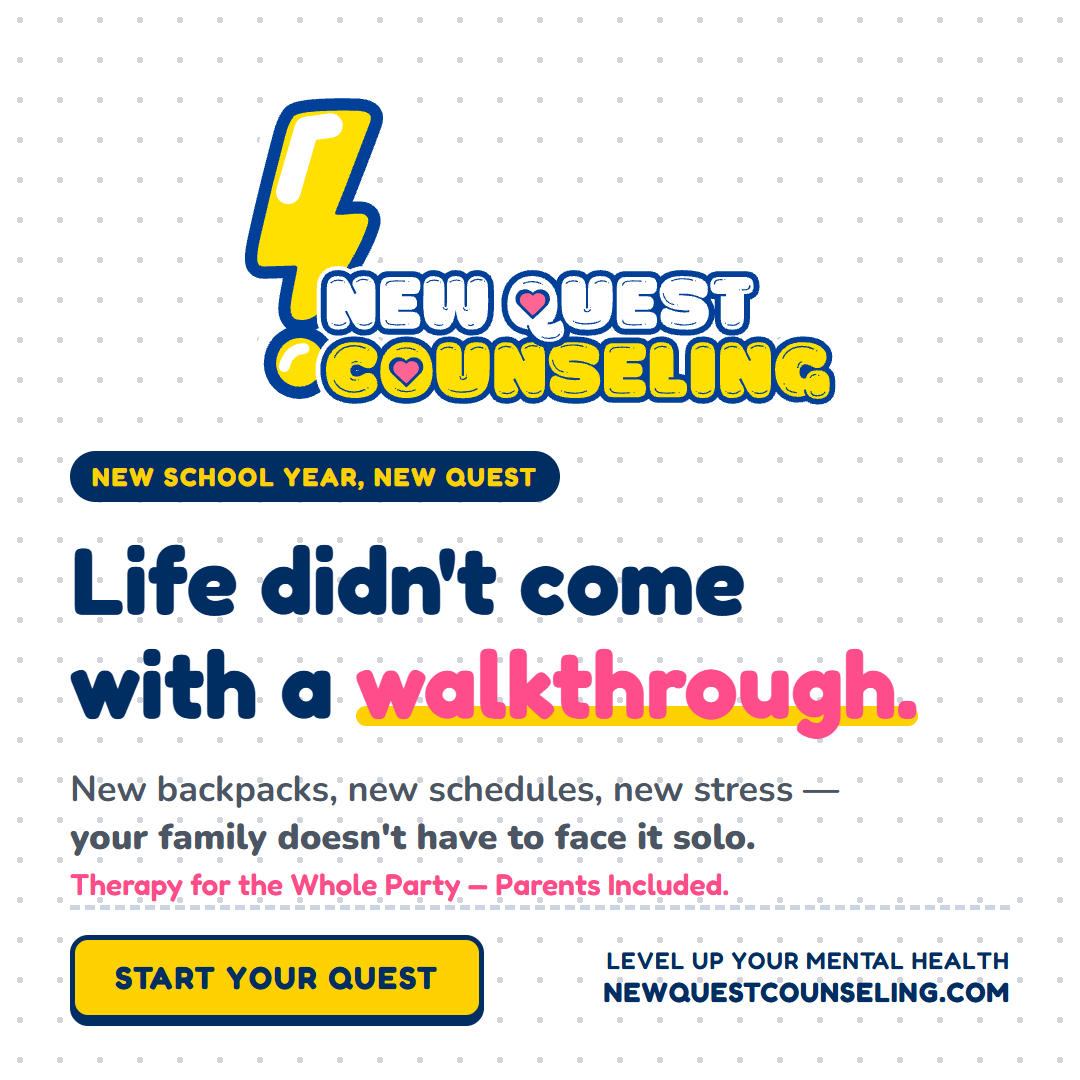
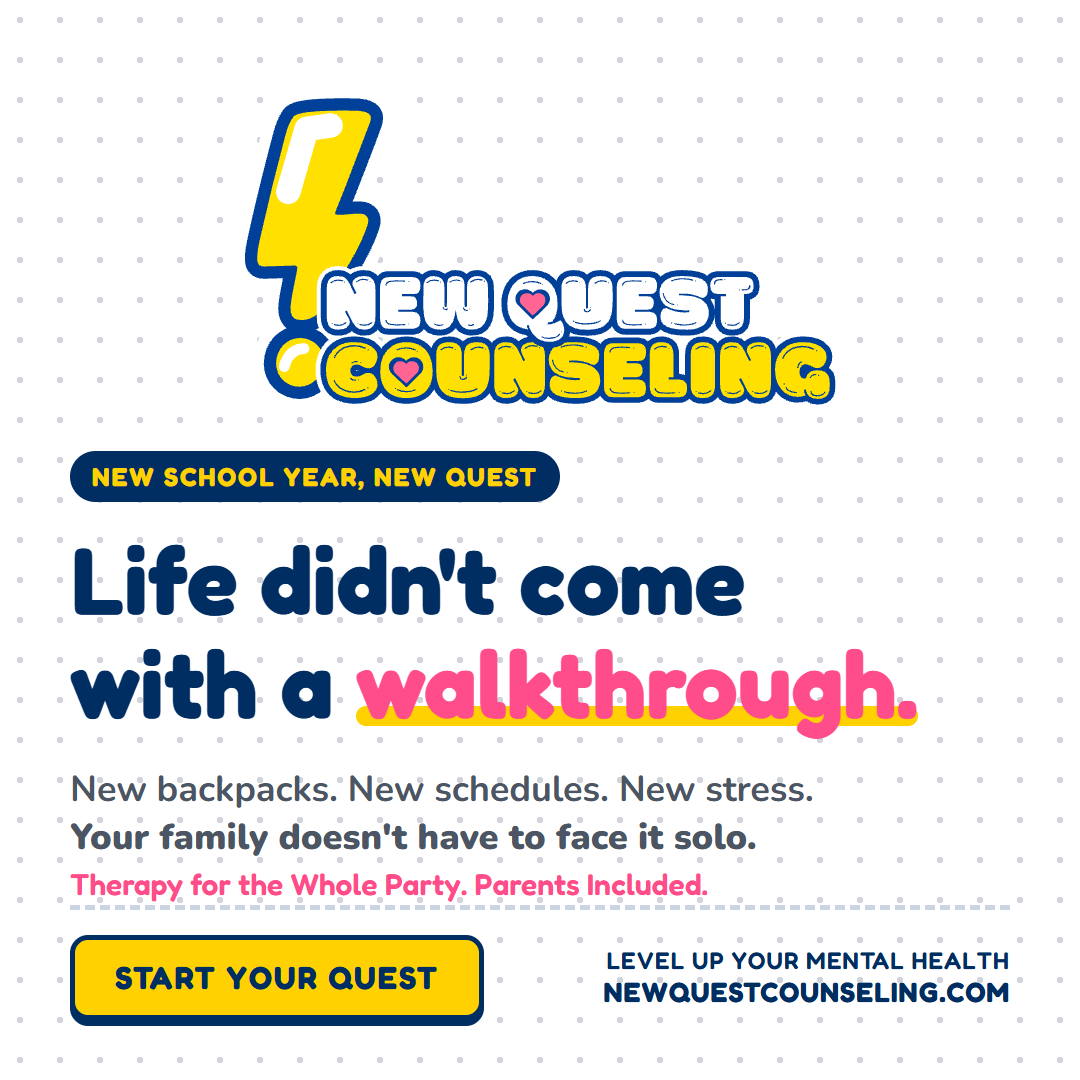
Remove em dashes from back-to-school ad copy

Changed region(s): [[0.0611, 0.7028, 0.7639, 0.825]]

diff --git a/ads/ad2-vertical.html b/ads/ad2-vertical.html
@@ -173,12 +173,12 @@
             <h1>Life didn't come <br>with a <span class="highlight">walkthrough.</span></h1>
 
             <p class="subtitle">
-                New backpacks, new schedules, new stress &mdash; <br>
-                <strong>your family doesn't have to face it solo.</strong>
+                New backpacks. New schedules. New stress. <br>
+                <strong>Your family doesn't have to face it solo.</strong>
             </p>
         </div>
 
-        <p class="subtext">Therapy for the Whole Party &mdash; Parents Included.</p>
+        <p class="subtext">Therapy for the Whole Party. Parents Included.</p>
 
         <div class="bottom-bar">
             <div class="tagline">Level Up Your Mental Health</div>

diff --git a/ads/ad2.html b/ads/ad2.html
@@ -181,13 +181,13 @@
             <h1>Life didn't come <br>with a <span class="highlight">walkthrough.</span></h1>
 
             <p class="subtitle">
-                New backpacks, new schedules, new stress &mdash; <br>
-                <strong>your family doesn't have to face it solo.</strong>
+                New backpacks. New schedules. New stress. <br>
+                <strong>Your family doesn't have to face it solo.</strong>
             </p>
 
         </div>
 
-        <p class="subtext">Therapy for the Whole Party &mdash; Parents Included.</p>
+        <p class="subtext">Therapy for the Whole Party. Parents Included.</p>
 
         <div class="bottom-bar">
             <div class="btn">Start Your Quest</div>
